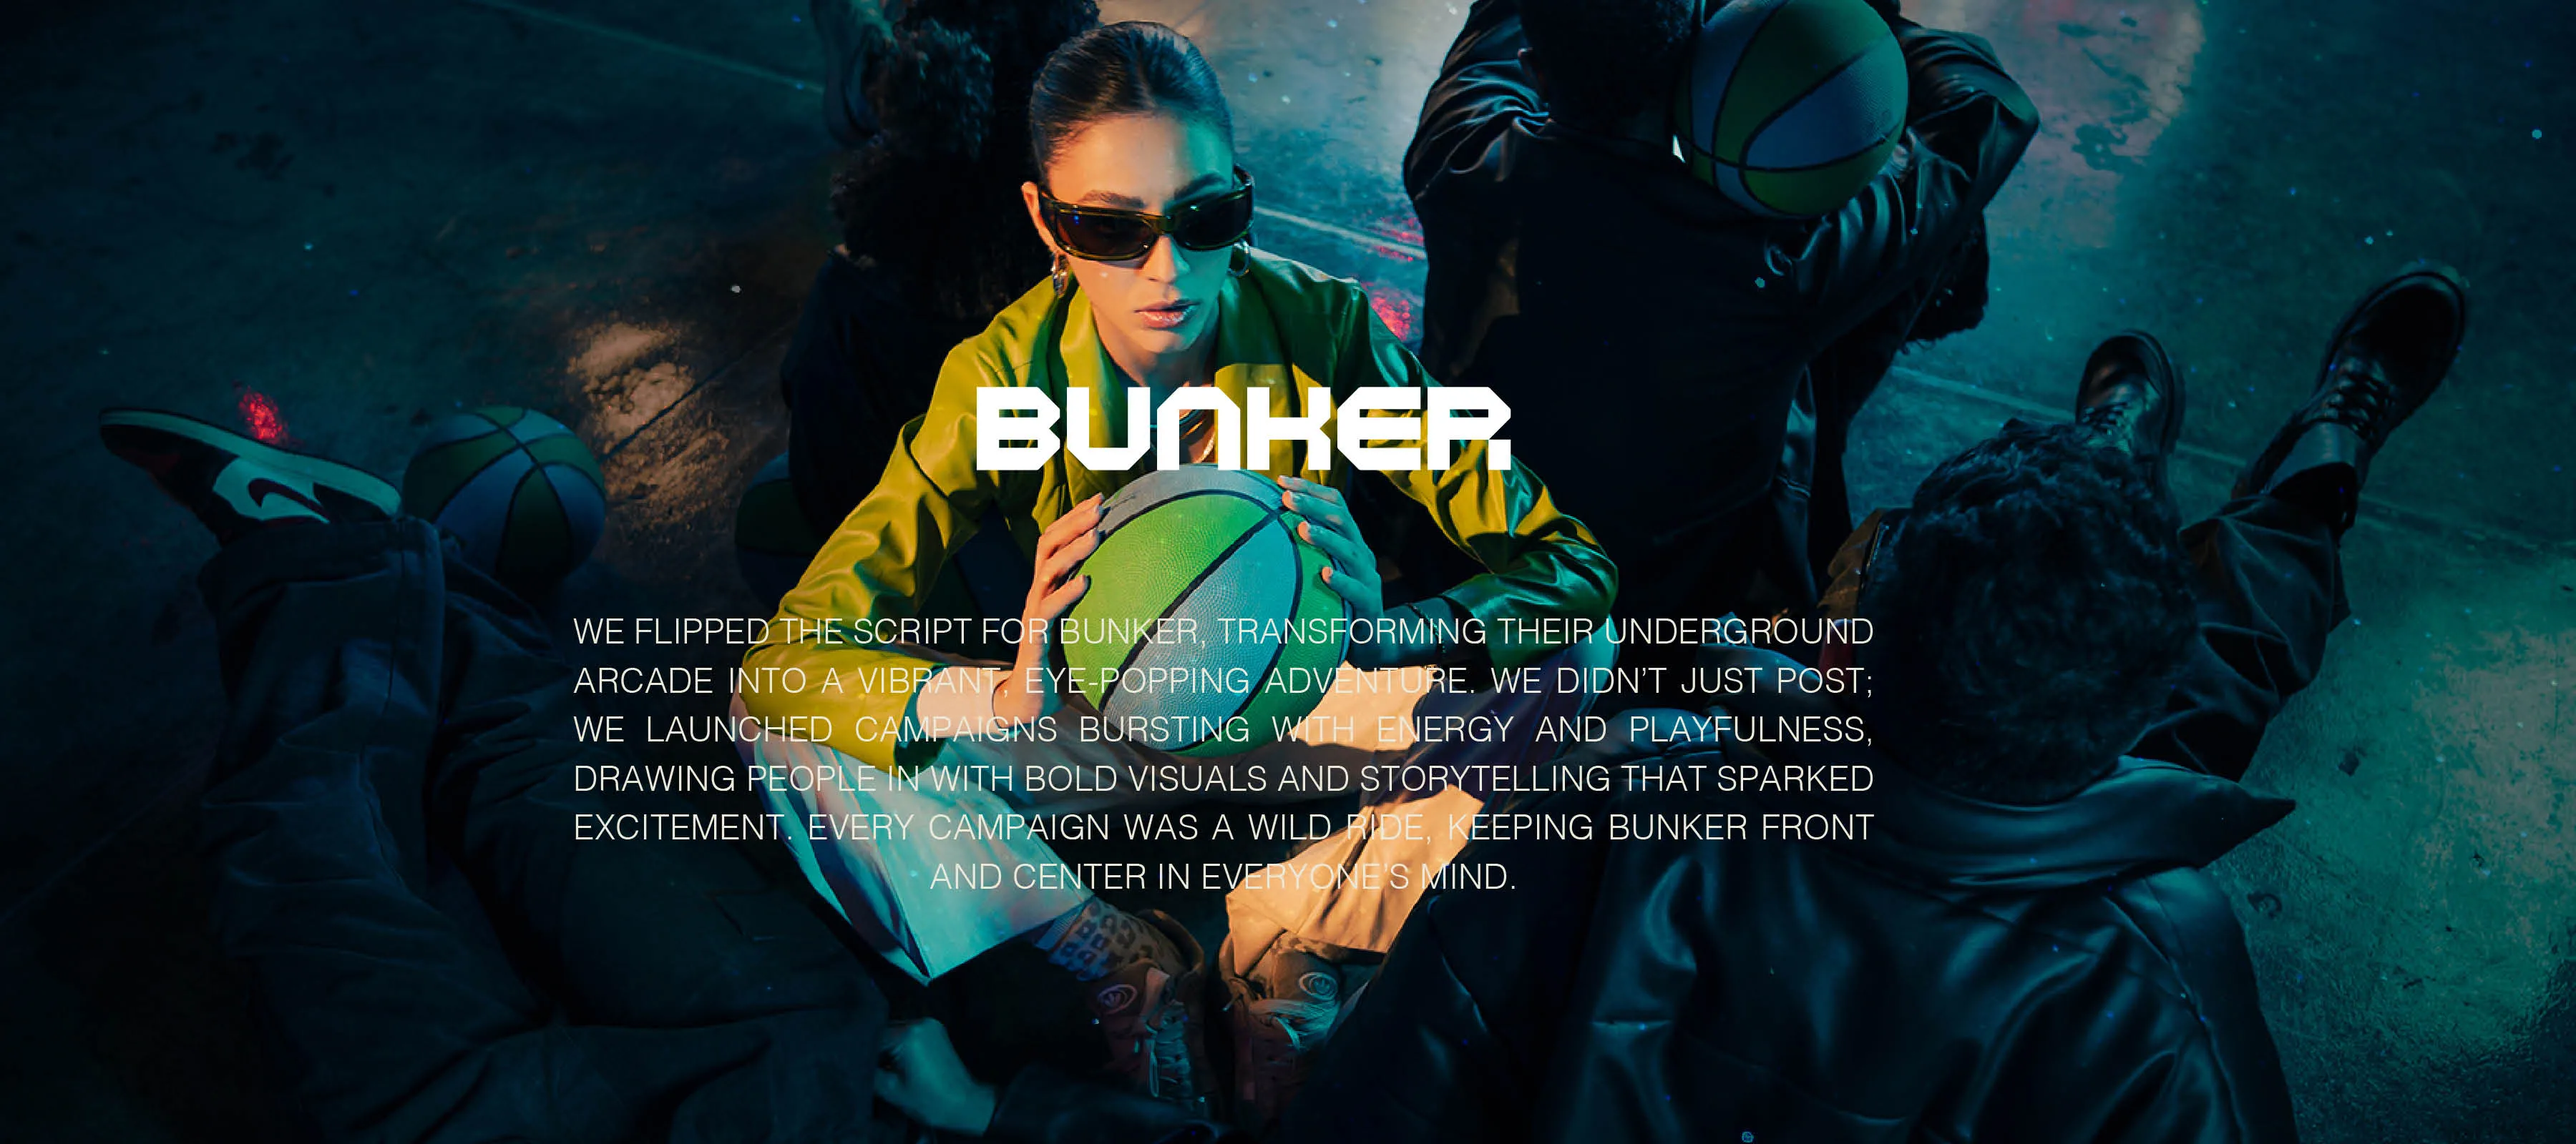
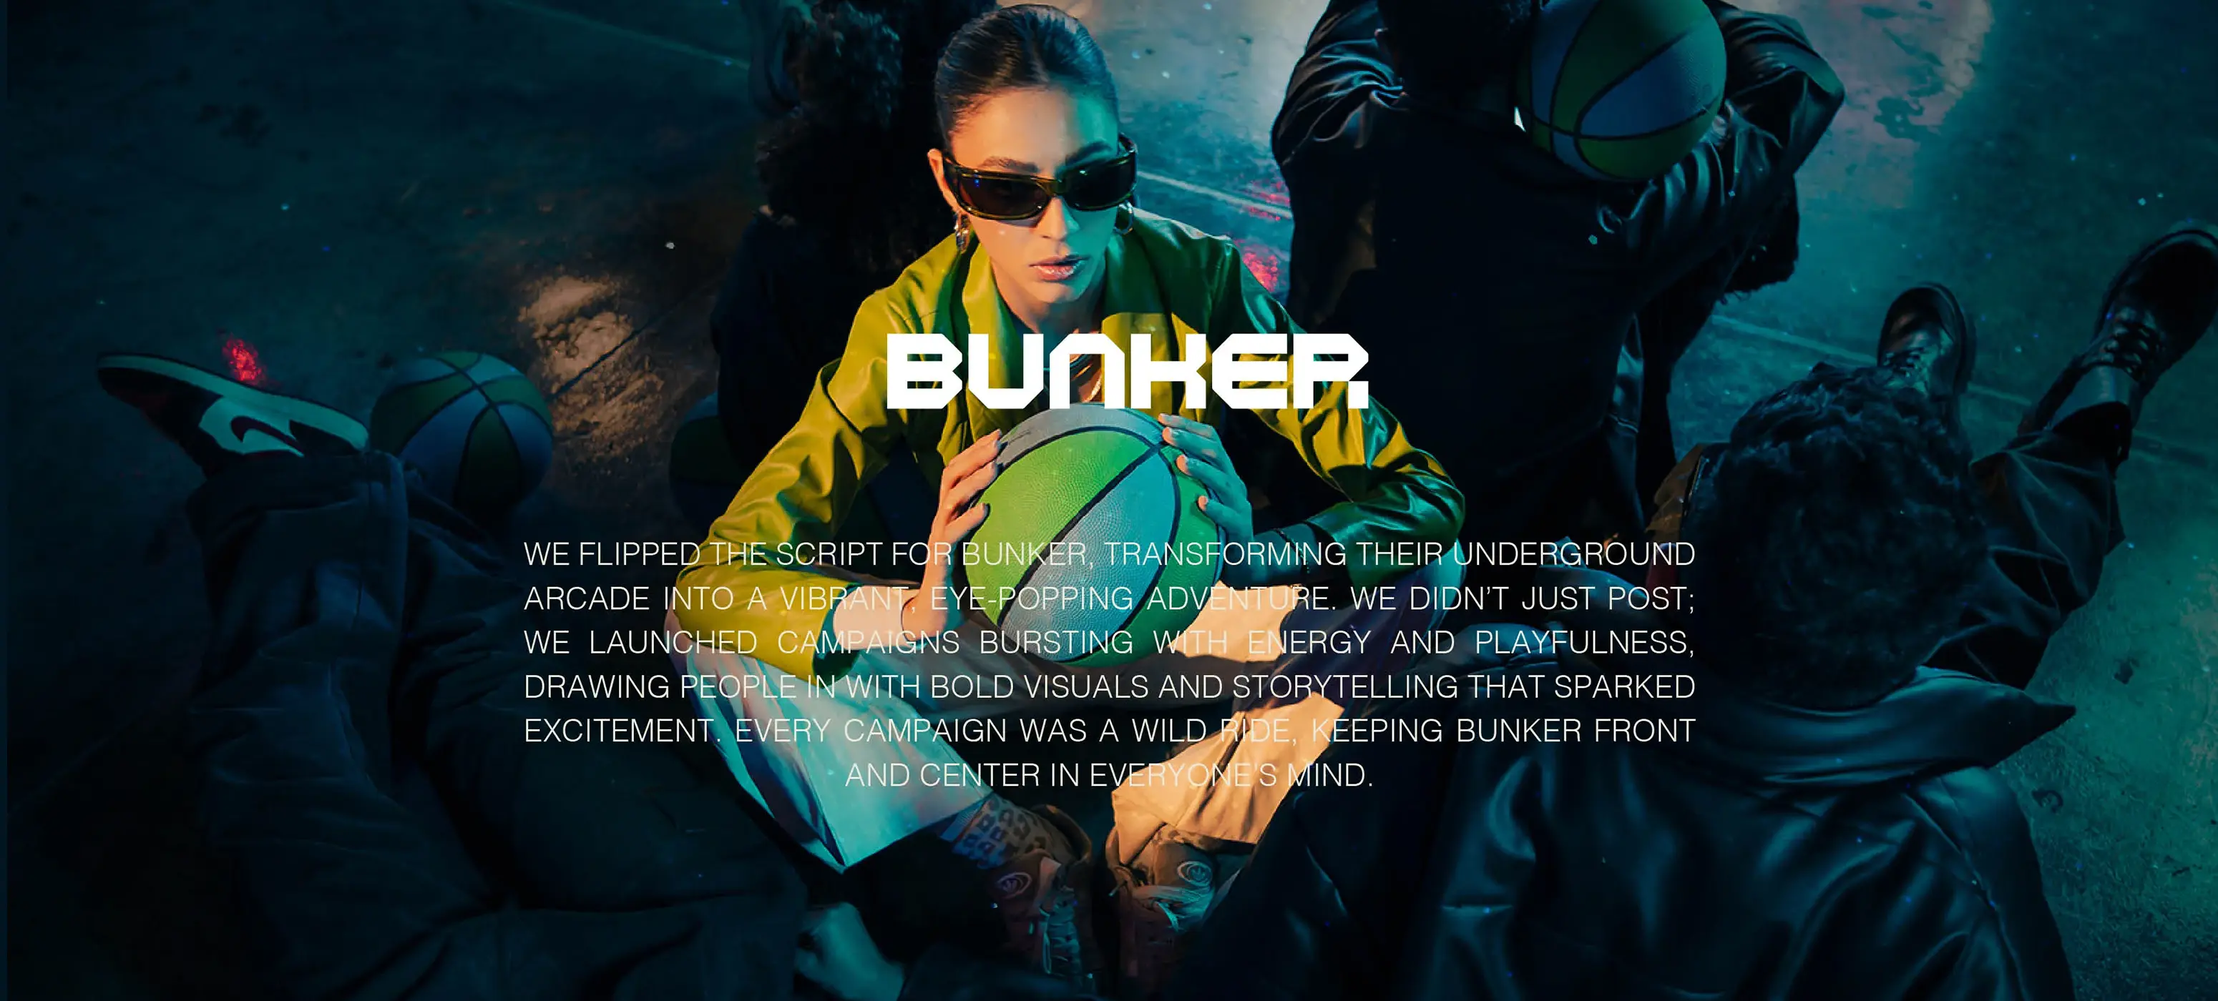
updated

diff --git a/src/pages/About Us/About.jsx b/src/pages/About Us/About.jsx
@@ -103,7 +103,14 @@ const About = () => {
   const [scrollPosition, setScrollPosition] = useState(0);
   const [windowWidth, setWindowWidth] = useState(0);
   
-  const images = Array.from({ length: 13 }, (_, i) => `/about/${i + 1}.webp`);
+  // Create images array with conditional first image based on screen size
+  const images = Array.from({ length: 13 }, (_, i) => {
+    if (i === 0) {
+      // Use full screen version for screens 1450px and above
+      return windowWidth >= 1450 ? `/about/1 FullScreen.webp` : `/about/${i + 1}.webp`;
+    }
+    return `/about/${i + 1}.webp`;
+  });
 
   // Preload images function to improve performance
   const preloadImages = async () => {
@@ -134,7 +141,7 @@ const About = () => {
     imageRefs.current = Array(images.length).fill().map(() => React.createRef());
     setImagesLoaded(Array(images.length).fill(false));
     preloadImages(); // Start preloading immediately
-  }, [images.length]);
+  }, [images.length, windowWidth]); // Add windowWidth dependency to reload images when screen size changes
 
   useEffect(() => {
     document.title = "About Us | VZBL";
